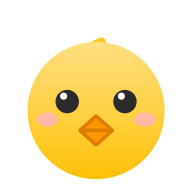
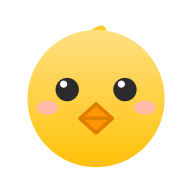
메인 앱 아이콘을 캔버스 정중앙으로 재배치
병아리 원형이 위쪽으로 치우쳐 있어(icon-512 기준 위 여백 99px vs
아래 34px) 위아래 여백이 비대칭했다. 각 아이콘의 실제 그림 영역
바운딩 박스를 계산해 캔버스 중심에 오도록 위로 이동시켰다
(투명 배경 아이콘은 빈 자리를 투명으로, 그라데이션 배경 아이콘은
가장자리 색으로 채움). sw.js VERSION을 올려 기존 설치자에게도
새 아이콘이 반영되게 했다.

Changed region(s): [[0.125, 0.125, 0.875, 0.9375], [0.4062, 0.5312, 0.5938, 0.7812]]

diff --git a/sw.js b/sw.js
@@ -5,7 +5,7 @@
 // - 정적 파일: 캐시 우선 + 백그라운드 갱신(stale-while-revalidate)
 // 파일 내용을 고칠 때마다 VERSION을 올리면 기존 방문자에게 업데이트 배너가 뜬다.
 // ============================================================
-const VERSION = 'v1.1.0';
+const VERSION = 'v1.1.1';
 const CACHE_NAME = 'ppiyak-' + VERSION;
 const CACHE_PREFIX = 'ppiyak-';
 
